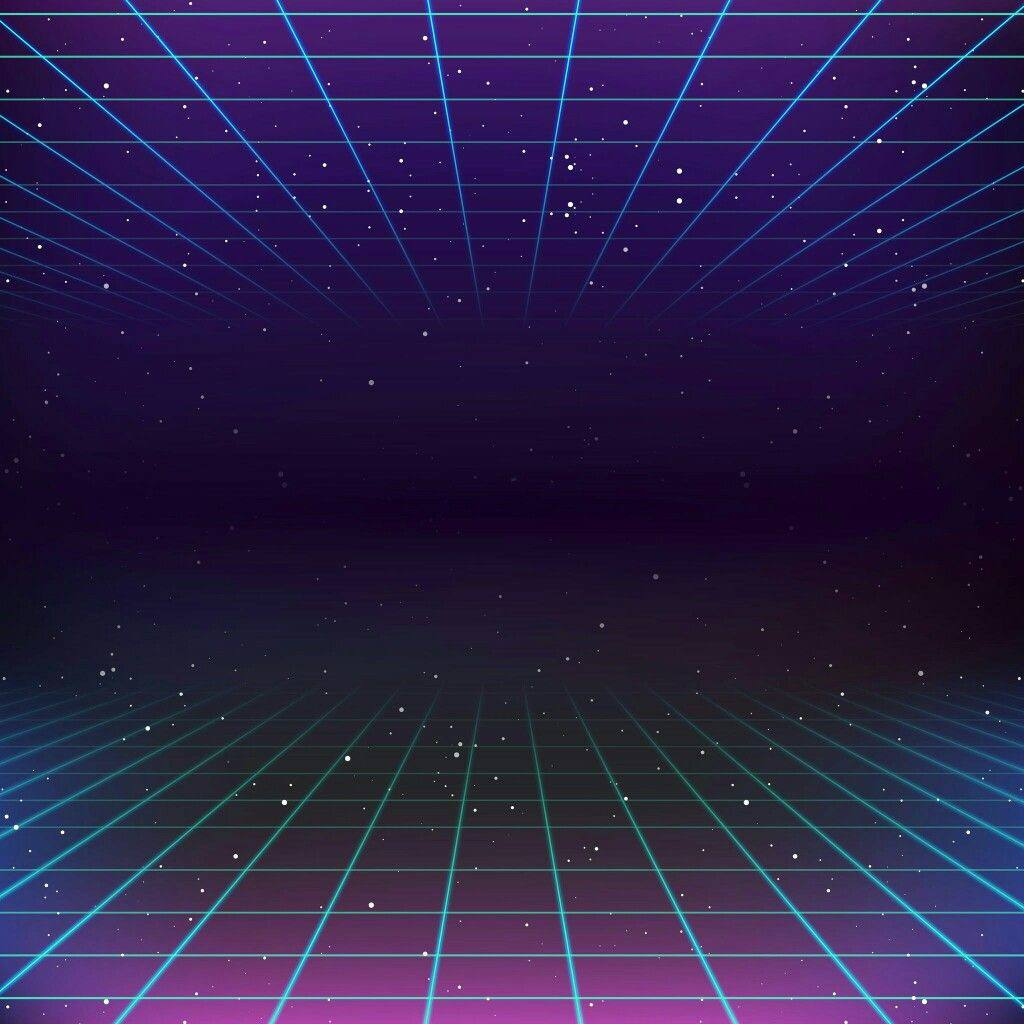
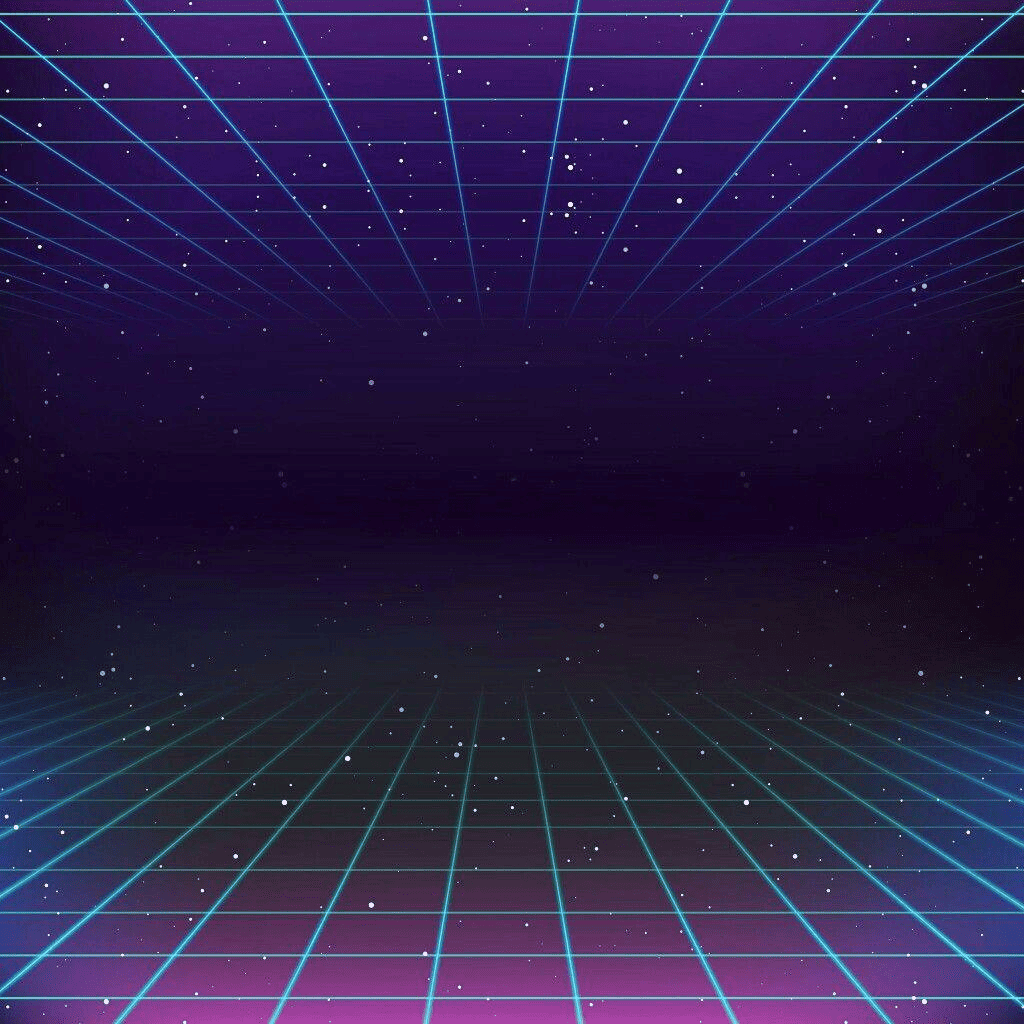
js-button

Changed region(s): [[0.9062, 0.9375, 0.9375, 0.9688]]

diff --git a/logics.JS b/logics.JS
@@ -1,10 +1,58 @@
-const slider = document.getElementById("myRange");
-const output = document.getElementById("rangeValue");
+// const slider = document.getElementById("myRange");
+// const output = document.getElementById("rangeValue");
 
 
-output.textContent = slider.value;
+// output.textContent = slider.value;
+
+// slider.addEventListener("input", (event) => {
+//   output.textContent = event.target.value;
+// });
+
+const modalBtn = document.querySelector('.btn-roulete')
+
+modalBtn.addEventListener('click', () => {
+    const wrapper = document.createElement('div');
+    wrapper.className = 'modalWrapper'
+
+    const backdrop = document.createElement('div');
+    backdrop.className = 'bg-modal';
+    backdrop.addEventListener('click', () => {
+      wrapper.remove();
+    });
+
+    wrapper.appendChild(backdrop);
+
+    const modalContainer = document.createElement('div')
+    modalContainer.className = 'modal'
+
+    wrapper.appendChild(modalContainer);
+
+    document.body.appendChild(wrapper)
+});
+
+const cross = document.createElement('button');
+cross.setAttribute('type', 'button');
+cross.className('modalCross')
+
+const start = document.createElement('button');
+cross.setAttribute('type', 'button');
+cross.className('mdoalStart')
+
+const play = document.createElement('button');
+cross.setAttribute('type', 'button');
+cross.className('modalPlay')
+
+modalContainer.appendChild(cross)
+modalContainer.appendChild(start)
+modalContainer.appendChild(play)
 
 
-slider.addEventListener("input", (event) => {
-  output.textContent = event.target.value;
+const scrollBtn = document.querySelector('.btn_Ludka');
+const targetSection = document.querySelector('.btn-roulete')
+
+scrollBtn.addEventListener('click', () => {
+  targetSection.scrollIntoView({
+    behavior:'smooth',
+    block: 'start'
+  });
 });

diff --git a/TRASHCINEMAROULETTE.css b/TRASHCINEMAROULETTE.css
@@ -5,6 +5,7 @@ body{
     flex-direction: column;
     
     scroll-behavior: smooth;
+    background-color: #130724;
     background-size: 100% auto;
     background-repeat: repeat-y;
     background-position: top center;
@@ -251,4 +252,34 @@ body{
     height: 70px;
     background-image: url(/PngFiles/cassette.svg);
     background-repeat: no-repeat;
+}
+
+.bg-modal {
+    display: block;
+    position: absolute;
+    z-index: 333;
+    left: 0;
+    top: 0;
+    width: 100%;
+    height: 100%;
+    background-color: rgba(0, 0, 0, 0.5);
+}
+
+.modal {
+    display: block;
+
+    z-index: 9999;
+
+    width: 800px;
+    height: 450px;
+    background-color: white;
+}
+
+.modalWrapper {
+    position: absolute;
+    width: 100%;
+    height: 100%;
+    display: flex;
+    justify-content: center;
+    align-items: center;
 }

diff --git a/index.html b/index.html
@@ -32,9 +32,7 @@
         </section>
 
       </section>
-    
-      
-      
+         
   <section class="background">
       <section class="logo">
         <img src="PngFiles/Logo.png" alt="">
@@ -78,9 +76,11 @@
       </section>  
 
       </section>
-      <div class="btn-position">
-        <button class="btn btn-roulete">КРУТИТЬ</button>
+      <div class="btn-position open-modal">
+        <button type="button" class="btn-roulete btn">КРУТИТЬ</button>
       </div>
-  </section>  
+    </div>
+  </section>
+  <script src="./logics.js"></script>
   </body>
     </html>
